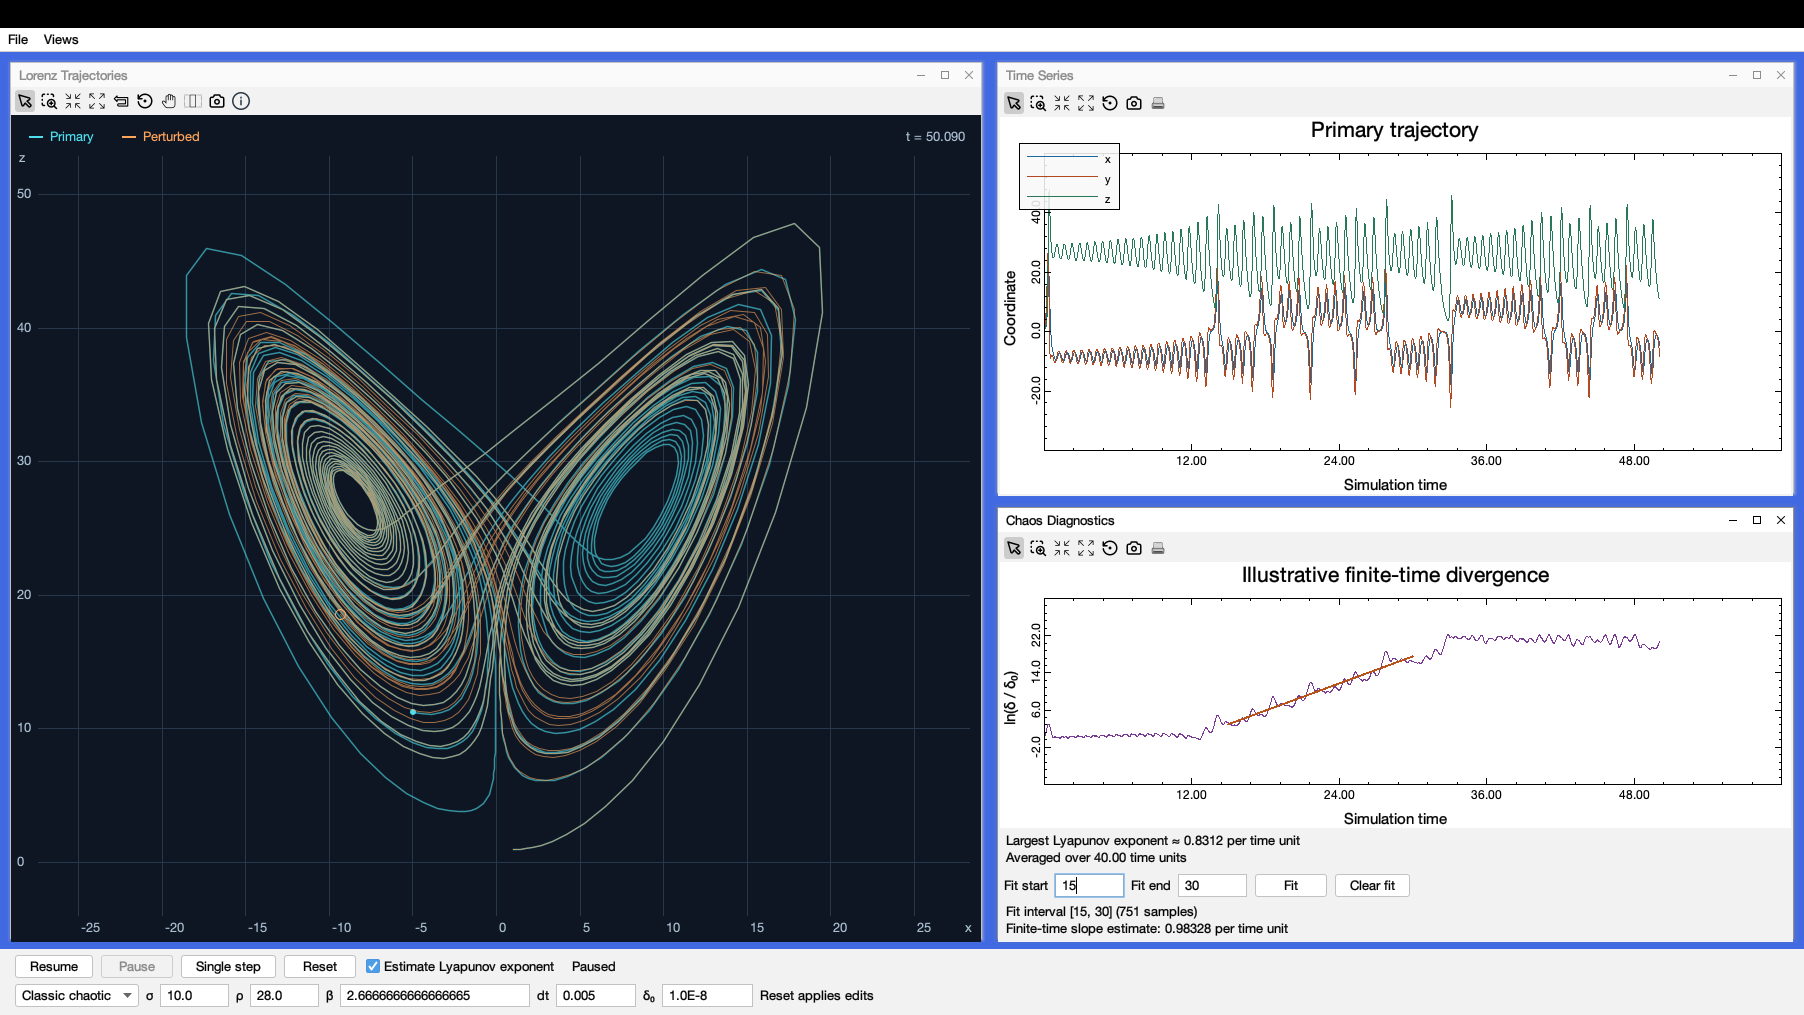
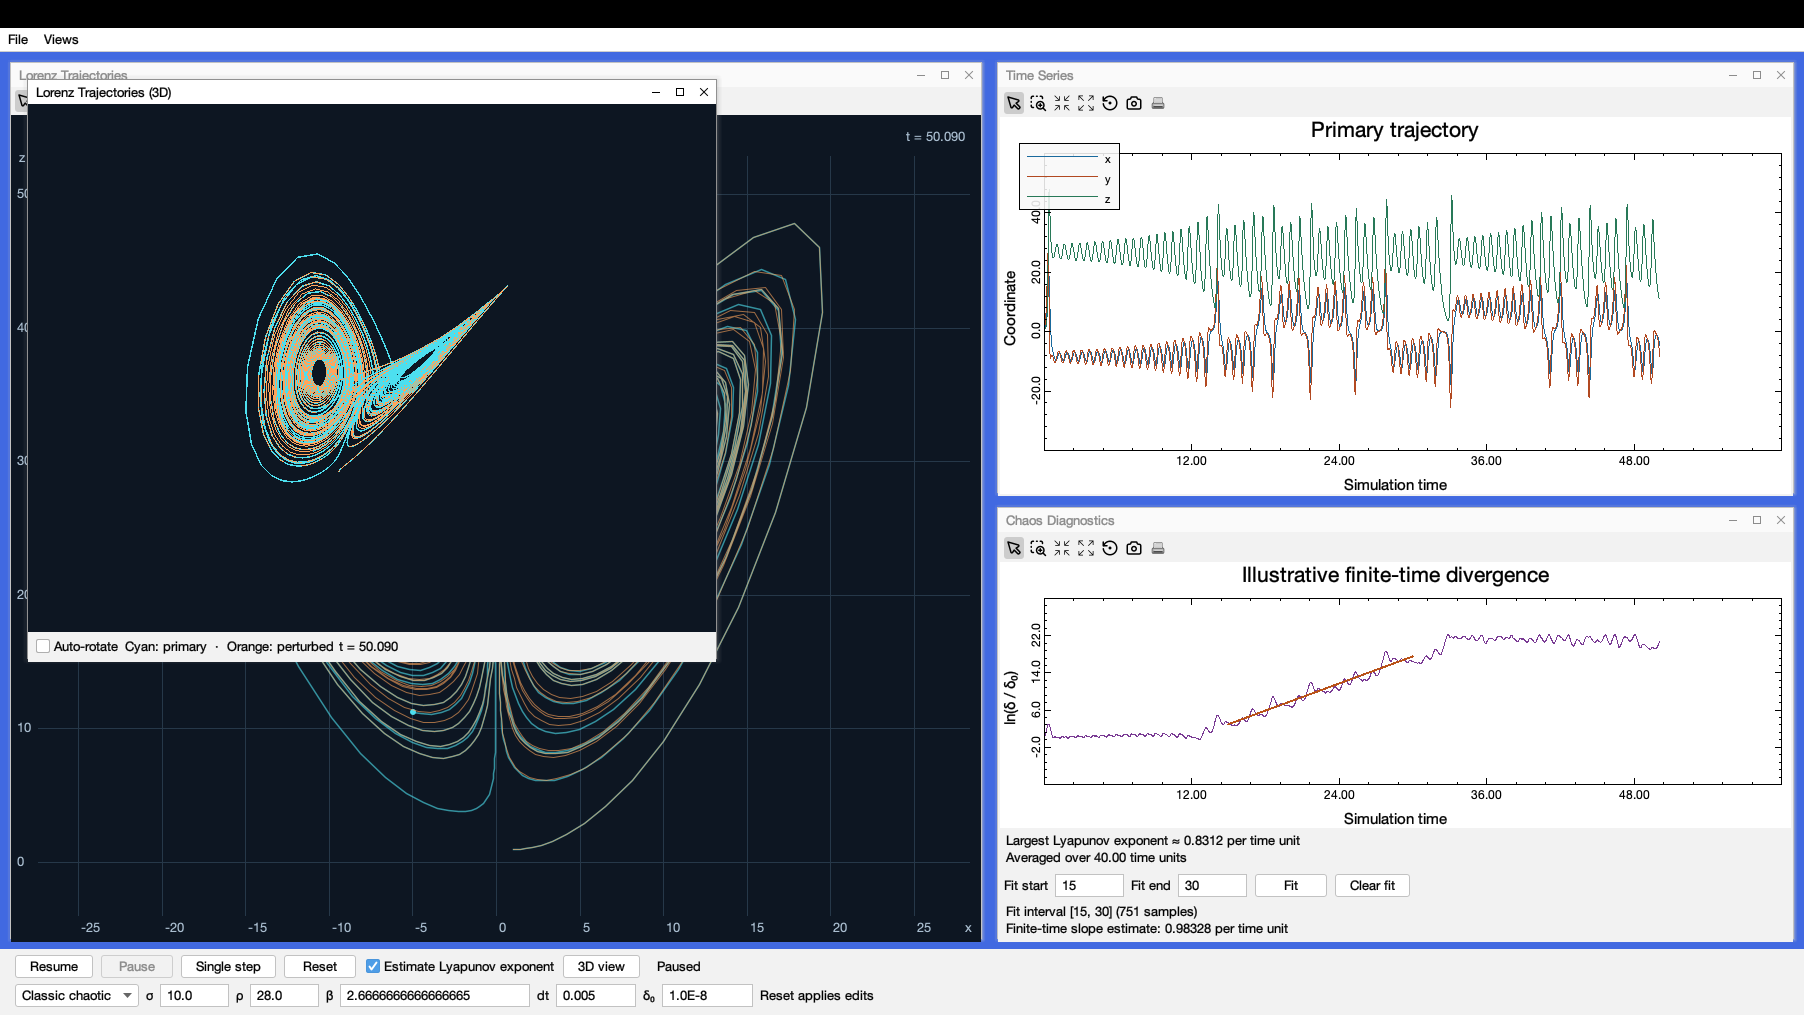
Add optional 3D Lorenz trajectory view

diff --git a/src/main/java/edu/cnu/mdi/chaos/view/Lorenz3DView.java b/src/main/java/edu/cnu/mdi/chaos/view/Lorenz3DView.java
@@ -1,0 +1,174 @@
+package edu.cnu.mdi.chaos.view;
+
+import java.awt.BorderLayout;
+import java.awt.Color;
+import java.awt.FlowLayout;
+import java.awt.event.ComponentAdapter;
+import java.awt.event.ComponentEvent;
+import java.util.ArrayDeque;
+import java.util.Deque;
+import java.util.Locale;
+
+import javax.swing.JCheckBox;
+import javax.swing.JLabel;
+import javax.swing.JPanel;
+import javax.swing.Timer;
+
+import com.jogamp.opengl.GLAutoDrawable;
+import edu.cnu.mdi.chaos.model.ChaosSnapshot;
+import edu.cnu.mdi.chaos.model.LorenzParameters;
+import edu.cnu.mdi.chaos.model.LorenzState;
+import edu.cnu.mdi.chaos.sim.ChaosSimulation;
+import edu.cnu.mdi.mdi3D.item3D.Item3D;
+import edu.cnu.mdi.mdi3D.panel.Panel3D;
+import edu.cnu.mdi.mdi3D.panel.Support3D;
+import edu.cnu.mdi.util.PropertyUtils;
+import edu.cnu.mdi.view.BaseView;
+
+public final class Lorenz3DView extends BaseView {
+    private static final Color PRIMARY = new Color(77, 223, 239);
+    private static final Color PERTURBED = new Color(255, 164, 91);
+    private final Deque<ChaosSnapshot> trail = new ArrayDeque<>();
+    private final Panel3D scene;
+    private final Orbits orbits;
+    private final JCheckBox autoRotate = new JCheckBox("Auto-rotate", true);
+    private final JLabel time = new JLabel();
+    private final Timer rotation;
+    private ChaosSnapshot current;
+    private double centerZ;
+    private double scale;
+
+    public Lorenz3DView(LorenzParameters parameters) {
+        super(PropertyUtils.TITLE, "Lorenz Trajectories (3D)", PropertyUtils.USECONTAINER, false,
+                PropertyUtils.WIDTH, 550, PropertyUtils.HEIGHT, 480);
+        scene = new Panel3D(-62, 0, -20, 0, 0, -3.6f, 0.05f, 0.086f, 0.133f, false);
+        orbits = new Orbits(scene);
+        scene.addItem(orbits);
+        add(scene, BorderLayout.CENTER);
+
+        var controls = new JPanel(new FlowLayout(FlowLayout.LEADING));
+        controls.add(autoRotate);
+        if (scene.isGLAvailable()) {
+            controls.add(new JLabel("Cyan: primary  ·  Orange: perturbed"));
+            controls.add(time);
+        }
+        add(controls, BorderLayout.SOUTH);
+
+        rotation = new Timer(50, event -> scene.rotateY(0.65f));
+        autoRotate.setEnabled(scene.isGLAvailable());
+        autoRotate.addActionListener(event -> updateRotation());
+        addPropertyChangeListener(IS_ICON_PROPERTY, event -> {
+            updateRotation();
+            if (!isIcon()) {
+                render();
+            }
+        });
+        addComponentListener(new ComponentAdapter() {
+            @Override
+            public void componentShown(ComponentEvent event) {
+                updateRotation();
+                render();
+            }
+
+            @Override
+            public void componentHidden(ComponentEvent event) {
+                updateRotation();
+            }
+        });
+        clear(parameters);
+    }
+
+    public void clear(LorenzParameters parameters) {
+        centerZ = Math.max(0, parameters.rho() - 1);
+        scale = Math.max(29, Math.max(parameters.rho() + 5, 1.4 * Math.sqrt(parameters.beta() * parameters.rho()) + 8));
+        trail.clear();
+        current = null;
+        orbits.coordinates = Coordinates.EMPTY;
+        time.setText("");
+        scene.softRefresh();
+    }
+
+    public void update(ChaosSimulation.Frame frame) {
+        if (!scene.isGLAvailable()) {
+            return;
+        }
+        boolean changed = !frame.current().equals(current);
+        current = frame.current();
+        for (ChaosSnapshot sample : frame.samples()) {
+            // Initial backfill can include samples that the next shared refresh still has to deliver.
+            if (!trail.isEmpty() && sample.step() <= trail.getLast().step()) {
+                continue;
+            }
+            if (trail.size() == ChaosSimulation.HISTORY_CAPACITY) {
+                trail.removeFirst();
+            }
+            trail.addLast(sample);
+        }
+        if (changed && isShowing() && !isIcon()) {
+            render();
+        }
+    }
+
+    private void render() {
+        if (current == null || !scene.isGLAvailable()) {
+            return;
+        }
+        float[] primary = new float[3 * (trail.size() + 1)];
+        float[] perturbed = new float[primary.length];
+        int offset = 0;
+        for (ChaosSnapshot sample : trail) {
+            write(primary, offset, sample.primary());
+            write(perturbed, offset, sample.perturbed());
+            offset += 3;
+        }
+        write(primary, offset, current.primary());
+        write(perturbed, offset, current.perturbed());
+        orbits.coordinates = new Coordinates(primary, perturbed);
+        time.setText(String.format(Locale.ROOT, "t = %.3f", current.time()));
+        scene.softRefresh();
+    }
+
+    private void write(float[] coordinates, int offset, LorenzState state) {
+        coordinates[offset] = (float) (state.x() / scale);
+        coordinates[offset + 1] = (float) (state.y() / scale);
+        coordinates[offset + 2] = (float) ((state.z() - centerZ) / scale);
+    }
+
+    private void updateRotation() {
+        if (isShowing() && !isIcon() && scene.isGLAvailable() && autoRotate.isSelected()) {
+            rotation.start();
+        } else {
+            rotation.stop();
+        }
+    }
+
+    @Override
+    public void prepareForExit() {
+        rotation.stop();
+        if (scene.isGLAvailable()) {
+            scene.getGLJPanel().destroy();
+        }
+        super.prepareForExit();
+    }
+
+    // Published vertex arrays belong to one render snapshot and are never mutated after publication.
+    private record Coordinates(float[] primary, float[] perturbed) {
+        private static final Coordinates EMPTY = new Coordinates(new float[0], new float[0]);
+    }
+
+    private static final class Orbits extends Item3D {
+        private volatile Coordinates coordinates = Coordinates.EMPTY;
+
+        private Orbits(Panel3D scene) {
+            super(scene);
+        }
+
+        @Override
+        public void draw(GLAutoDrawable drawable) {
+            Coordinates frame = coordinates;
+            int points = frame.primary().length / 3;
+            Support3D.drawPolyLine(drawable, frame.primary(), points, PRIMARY, 1.5f);
+            Support3D.drawPolyLine(drawable, frame.perturbed(), points, PERTURBED, 1f);
+        }
+    }
+}

diff --git a/src/main/java/edu/cnu/mdi/chaos/app/ChaosApp.java b/src/main/java/edu/cnu/mdi/chaos/app/ChaosApp.java
@@ -1,12 +1,20 @@
 package edu.cnu.mdi.chaos.app;
 
 import java.awt.BorderLayout;
+import java.beans.PropertyVetoException;
+import java.util.concurrent.ExecutionException;
+
+import javax.swing.JOptionPane;
+import javax.swing.SwingWorker;
+
+import com.jogamp.opengl.GLProfile;
 
 import edu.cnu.mdi.app.BaseMDIApplication;
 import edu.cnu.mdi.chaos.model.LorenzParameters;
 import edu.cnu.mdi.chaos.sim.ChaosSimulation;
 import edu.cnu.mdi.chaos.view.ChaosControlPanel;
 import edu.cnu.mdi.chaos.view.ChaosPlotView;
+import edu.cnu.mdi.chaos.view.Lorenz3DView;
 import edu.cnu.mdi.chaos.view.LorenzView;
 import edu.cnu.mdi.desktop.Desktop;
 import edu.cnu.mdi.sim.SimulationContext;
@@ -16,6 +24,8 @@ import edu.cnu.mdi.util.PropertyUtils;
 
 public final class ChaosApp extends BaseMDIApplication implements SimulationListener {
     private LorenzView trajectories;
+    private Lorenz3DView trajectories3D;
+    private LorenzParameters activeParameters;
     private ChaosPlotView timeSeries;
     private ChaosPlotView diagnostics;
     private ChaosControlPanel controls;
@@ -25,7 +35,8 @@ public final class ChaosApp extends BaseMDIApplication implements SimulationList
 
     private ChaosApp() {
         super(PropertyUtils.TITLE, "MDI Chaos Lab", PropertyUtils.FRACTION, 0.94);
-        controls = new ChaosControlPanel(this::runSimulation, this::pauseSimulation, this::singleStep, this::reset);
+        controls = new ChaosControlPanel(this::runSimulation, this::pauseSimulation, this::singleStep,
+                this::reset, this::open3D);
         add(controls, BorderLayout.SOUTH);
         reset(LorenzParameters.DEFAULT, false);
     }
@@ -67,6 +78,63 @@ public final class ChaosApp extends BaseMDIApplication implements SimulationList
         }
     }
 
+    private void open3D() {
+        if (trajectories3D != null) {
+            show3D();
+            return;
+        }
+        controls.setOpening3D(true);
+        new SwingWorker<Void, Void>() {
+            @Override
+            protected Void doInBackground() {
+                // On macOS JOGL needs the native main thread during its first profile discovery.
+                GLProfile.initSingleton();
+                return null;
+            }
+
+            @Override
+            protected void done() {
+                if (simulation == null) {
+                    return;
+                }
+                controls.setOpening3D(false);
+                try {
+                    get();
+                } catch (InterruptedException error) {
+                    Thread.currentThread().interrupt();
+                    return;
+                } catch (ExecutionException error) {
+                    JOptionPane.showMessageDialog(ChaosApp.this, "OpenGL initialization failed. "
+                            + "The 2D views are still available.", "3D view unavailable", JOptionPane.WARNING_MESSAGE);
+                    return;
+                }
+                create3D();
+                show3D();
+            }
+        }.execute();
+    }
+
+    private void create3D() {
+        trajectories3D = new Lorenz3DView(activeParameters);
+        var desktop = Desktop.getInstance();
+        int width = Math.min(700, (int) (desktop.getWidth() * 0.50));
+        int height = Math.min(590, (int) (desktop.getHeight() * 0.80));
+        trajectories3D.setBounds(22, 22, width, height);
+        if (lastSample >= 0) {
+            trajectories3D.update(simulation.readSince(-1));
+        }
+    }
+
+    private void show3D() {
+        try {
+            trajectories3D.setIcon(false);
+        } catch (PropertyVetoException ignored) {
+            return;
+        }
+        trajectories3D.setVisible(true);
+        trajectories3D.moveToFront();
+    }
+
     private void runSimulation() {
         controls.pending("Starting…");
         simulation.engine().requestRun();
@@ -91,7 +159,11 @@ public final class ChaosApp extends BaseMDIApplication implements SimulationList
         controls.pending("Resetting…");
         stepping = false;
         lastSample = -1;
+        activeParameters = parameters;
         trajectories.clear(parameters);
+        if (trajectories3D != null) {
+            trajectories3D.clear(parameters);
+        }
         timeSeries.clear();
         diagnostics.clear();
         diagnostics.resetDiagnostic(parameters.delta0() == 0);
@@ -118,6 +190,9 @@ public final class ChaosApp extends BaseMDIApplication implements SimulationList
         }
         var frame = simulation.readSince(lastSample);
         trajectories.update(frame);
+        if (trajectories3D != null) {
+            trajectories3D.update(frame);
+        }
         timeSeries.append(frame.samples());
         diagnostics.append(frame.samples());
         diagnostics.showLyapunovEstimate(frame.lyapunovEstimate());

diff --git a/src/main/java/edu/cnu/mdi/chaos/view/ChaosControlPanel.java b/src/main/java/edu/cnu/mdi/chaos/view/ChaosControlPanel.java
@@ -20,6 +20,7 @@ public final class ChaosControlPanel extends JPanel {
     private final JButton run = new JButton("Start");
     private final JButton pause = new JButton("Pause");
     private final JButton step = new JButton("Single step");
+    private final JButton open3D = new JButton("3D view");
     private final JLabel status = new JLabel("Initializing…");
     private final JTextField sigma = new JTextField(5);
     private final JTextField rho = new JTextField(5);
@@ -27,7 +28,8 @@ public final class ChaosControlPanel extends JPanel {
     private final JTextField dt = new JTextField(6);
     private final JTextField delta = new JTextField(7);
 
-    public ChaosControlPanel(Runnable onRun, Runnable onPause, Runnable onStep, BiConsumer<LorenzParameters, Boolean> onReset) {
+    public ChaosControlPanel(Runnable onRun, Runnable onPause, Runnable onStep, BiConsumer<LorenzParameters, Boolean> onReset,
+                             Runnable onOpen3D) {
         super(new GridLayout(0, 1));
         setBorder(BorderFactory.createEmptyBorder(3, 8, 5, 8));
 
@@ -40,6 +42,8 @@ public final class ChaosControlPanel extends JPanel {
         var lyapunov = new JCheckBox("Estimate Lyapunov exponent");
         lyapunov.setToolTipText("Use periodic renormalization on the next reset");
         actions.add(lyapunov);
+        open3D.addActionListener(event -> onOpen3D.run());
+        actions.add(open3D);
         var actionRow = new JPanel(new BorderLayout(10, 0));
         actionRow.add(actions, BorderLayout.WEST);
         actionRow.add(status, BorderLayout.CENTER);
@@ -91,6 +95,11 @@ public final class ChaosControlPanel extends JPanel {
             case TERMINATED -> "Stopped";
             case FAILED -> "Simulation stopped. Reset to start again.";
         });
+    }
+
+    public void setOpening3D(boolean opening) {
+        open3D.setText(opening ? "Opening 3D…" : "3D view");
+        open3D.setEnabled(!opening);
     }
 
     public void pending(String message) {

diff --git a/README.md b/README.md
@@ -1,12 +1,12 @@
 # MDI Chaos Lab
 
-MDI Chaos Lab is a standalone Java 17 desktop simulation built on MDI 1.2.4. It advances two Lorenz systems with the same equations and parameters and a small difference in their starting positions. The desktop shows both trajectories in the x–z plane, the primary trajectory’s three coordinates on one sPlot chart, and a separate sPlot chart for divergence.
+MDI Chaos Lab is a standalone Java 17 desktop simulation built on MDI 1.2.4. It advances two Lorenz systems with the same equations and parameters and a small difference in their starting positions. The desktop shows both trajectories in the x–z plane, the primary trajectory’s three coordinates on one sPlot chart, and a separate sPlot chart for divergence. An optional 3D view shows the same trajectories in full phase space.
 
-![MDI Chaos Lab paused at simulation time 50, showing the Lorenz butterfly, time series, and diagnostics with a divergence fit over simulation times 15 to 30 and a running Lyapunov estimate](docs/desktop-screenshot.png)
+![MDI Chaos Lab paused at simulation time 50, showing the 3D Lorenz trajectories alongside the 2D projection, time series, divergence fit, and running Lyapunov estimate](docs/desktop-screenshot.png)
 
 ## Build and run
 
-With Java 17 or newer and Maven, run the following from the project directory. Launching the application requires a graphical desktop. The tests run headlessly.
+With Java 17 or newer and Maven, run the following from the project directory. Launching the application requires a graphical desktop. The optional 3D window uses MDI-3D 1.0.3 and JOGL, and needs OpenGL support. The application opens in 2D and initializes OpenGL when the 3D window is first requested. The tests run headlessly.
 
 ```sh
 mvn clean verify
@@ -23,6 +23,7 @@ The entry point is `edu.cnu.mdi.chaos.app.ChaosApp`. The build uses the publishe
 - **Presets** fill the fields for the classic chaotic regime, a system that approaches the origin (Fixed point), or one that approaches a nonzero equilibrium (Stable lobe). Reset applies the selected values.
 - **Fit a divergence interval** by entering **Fit start** and **Fit end** in Chaos Diagnostics and clicking **Fit**. The line is a least-squares fit to the recorded samples within those bounds. The view reports the interval, sample count, and finite-time slope estimate. Pause to inspect the curve, then choose a rising segment before saturation. **Clear fit** removes the line. Reset also clears it.
 - **Estimate the largest Lyapunov exponent** by checking **Estimate Lyapunov exponent** and clicking **Reset**. The estimate appears in Chaos Diagnostics after warm-up and updates as complete intervals accumulate. Clear the checkbox and reset to disable it.
+- **3D view** opens a movable MDI window showing the same trajectories in (x, y, z). Turn off **Auto-rotate** to hold the orientation. Drag to rotate manually and use the mouse wheel to zoom. Closing the 3D window leaves the simulation running. Reopen it to see the latest trail.
 - **Capture a trajectory image** with the camera in the Lorenz Trajectories toolbar. For the classic butterfly, run until the time display reaches about 65–85, then pause. The same toolbar provides navigation and view help.
 
 ## Scientific model
@@ -53,4 +54,4 @@ This is a finite-perturbation numerical estimate whose accuracy depends on run l
 
 MDI 1.2.4 exposes run, resume and pause, but no step-once transition. The app arms a one-shot flag while the engine is Ready or Paused, then requests run. The worker consumes that flag, advances both trajectories once, and requests pause before returning from its MDI step callback. MDI checks the pause flag on the same worker before invoking the callback again. The EDT keeps the run, pause and step buttons disabled until MDI confirms Paused. Reset can retire the engine while a command is pending.
 
-The thirteen automated tests cover fourth-order convergence over a short interval, replay, reset, time, perturbation and divergence, bounded history, invalid inputs, selected-interval regression, Lyapunov estimation, and single-step behavior through the real MDI engine. 3D is future work.
+The thirteen automated tests cover fourth-order convergence over a short interval, replay, reset, time, perturbation and divergence, bounded history, invalid inputs, selected-interval regression, Lyapunov estimation, and single-step behavior through the real MDI engine.
